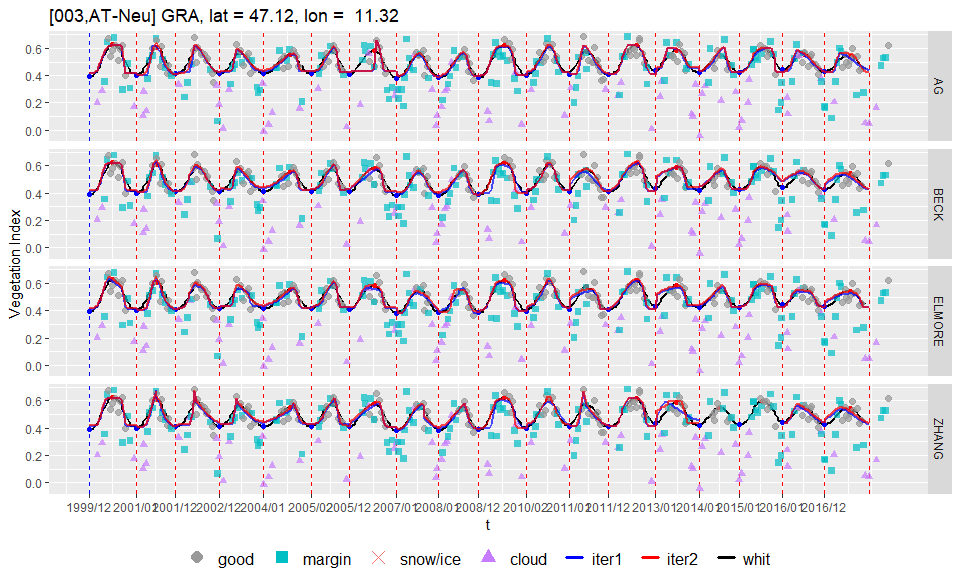
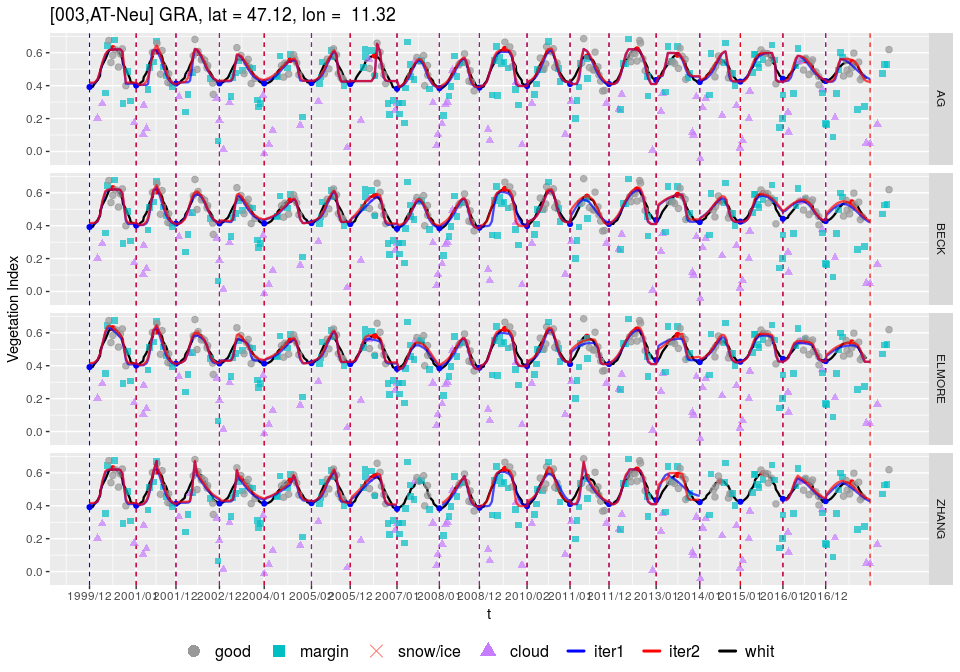
success add weigths iteration

diff --git a/src/wTSM.cpp b/src/wTSM.cpp
@@ -35,7 +35,7 @@ NumericVector wTSM_cpp(NumericVector y, NumericVector yfit, NumericVector w,
       // Adjust the weights dependent on if the values are above or below the
       // fitted values
       if (y[i] < yfit[i] - 1e-8){
-          if (yi_min > yfitmean || iter < 2){
+          if (yi_min > yfitmean){ //  || iter < 2
             /**
              * If there is a low variation in an interval, i.e. if the interval
              * is at a peak or at a minima compute the normalized distance

diff --git a/README.md b/README.md
@@ -1,21 +1,25 @@
 
 <!-- README.md is generated from README.Rmd. Please edit that file -->
-phenofit
---------
 
-[![Travis Build Status](https://travis-ci.org/kongdd/phenofit.svg?branch=master)](https://travis-ci.org/kongdd/phenofit) [![codecov](https://codecov.io/gh/kongdd/phenofit/branch/master/graph/badge.svg)](https://codecov.io/gh/kongdd/phenofit)
+## phenofit
 
-A state-of-the-art **remote sensing vegetation phenology** extraction package: `phenofit`
+[![Travis Build
+Status](https://travis-ci.org/kongdd/phenofit.svg?branch=master)](https://travis-ci.org/kongdd/phenofit)
+[![codecov](https://codecov.io/gh/kongdd/phenofit/branch/master/graph/badge.svg)](https://codecov.io/gh/kongdd/phenofit)
 
--   `phenofit` combine merits of TIMESAT and phenopix
--   A simple and stable growing season dividing methods was proposed
--   Provide a practical snow elimination method, based on Whittaker
--   7 curve fitting methods and 4 phenology extraction methods
--   We add parameters boundary for every curve fitting methods according to their ecological meaning.
--   `optimx` is used to select best optimization method for different curve fitting methods.
+A state-of-the-art **remote sensing vegetation phenology** extraction
+package: `phenofit`
 
-Installation
-------------
+  - `phenofit` combine merits of TIMESAT and phenopix
+  - A simple and stable growing season dividing methods was proposed
+  - Provide a practical snow elimination method, based on Whittaker
+  - 7 curve fitting methods and 4 phenology extraction methods
+  - We add parameters boundary for every curve fitting methods according
+    to their ecological meaning.
+  - `optimx` is used to select best optimization method for different
+    curve fitting methods.
+
+## Installation
 
 You can install phenofit from github with:
 
@@ -24,21 +28,20 @@ You can install phenofit from github with:
 devtools::install_github("kongdd/phenofit")
 ```
 
-Example
--------
+## Example
 
-Here, we illustrate how to use `phenofit` to extract vegetation phenology from MOD13A1 in the sampled points. Regional analysis also can be conducted in the similar way.
+Here, we illustrate how to use `phenofit` to extract vegetation
+phenology from MOD13A1 in the sampled points. Regional analysis also can
+be conducted in the similar way.
 
-1. Preparing input data
-=======================
+## 1.1 Download MOD13A1 data
 
-1.1 Download MOD13A1 data
--------------------------
+Upload point shapefile into GEE, clip MOD13A1 and download vegetation
+index data.
+[Here](https://code.earthengine.google.com/ee3ec39cf3061374dab435c358d008a3)
+is the corresponding GEE script.
 
-Upload point shapefile into GEE, clip MOD13A1 and download vegetation index data. [Here](https://code.earthengine.google.com/ee3ec39cf3061374dab435c358d008a3) is the corresponding GEE script.
-
-1.2 Initial weights for input data
-----------------------------------
+## 1.2 Initial weights for input data
 
 Load packages.
 
@@ -51,20 +54,36 @@ library(purrr)
 library(plyr)
 ```
 
-Read the point shapefile to get points coordinate information. Read Enhanced Vegetation Index (EVI) exported by `GEE`.
+Set global parameters for
+`phenofit`
 
--   Add date according to composite day of the year (DayOfYear), other than image date.
--   Add weights according to `SummaryQA`.
+``` r
+# lambda   <- 5    # non-parameter Whittaker, only suit for 16-day. Other time-scale
+# should assign a lambda.
+ymax_min   <- 0.1  # the maximum ymax shoud be greater than `ymax_min` 
+rymin_less <- 0.8  # trough < ymin + A*rymin_less
+nptperyear <- 23   # How many points for a single year
+wFUN       <- wTSM #wBisquare # Weights updating function, could be one of `wTSM`, 'wBisquare', `wChen` and `wSELF`. 
+```
 
-For MOD13A1, Weights can by initialed by `SummaryQA` band (also suit for MOD13A2 and MOD13Q1). We have written a qc function for `SummaryQA`, `qc_summary`.
+Read the point shapefile to get points coordinate information. Read
+Enhanced Vegetation Index (EVI) exported by `GEE`.
 
-| SummaryQA       | Pixel reliability summary QA                        | weight |
-|-----------------|-----------------------------------------------------|--------|
-| -1 Fill/No data | Not processed                                       | `wmin` |
-| 0 Good data     | Use with confidence                                 | 1      |
-| 1 Marginal data | Useful but look at detailed QA for more information | 0.5    |
-| 2 Snow/ice      | Pixel covered with snow/ice                         | `wmin` |
-| 3 Cloudy        | Pixel is cloudy                                     | `wmin` |
+  - Add date according to composite day of the year (DayOfYear), other
+    than image date.
+  - Add weights according to `SummaryQA`.
+
+For MOD13A1, Weights can by initialed by `SummaryQA` band (also suit for
+MOD13A2 and MOD13Q1). We have written a qc function for `SummaryQA`,
+`qc_summary`.
+
+| SummaryQA        | Pixel reliability summary QA                        | weight |
+| ---------------- | --------------------------------------------------- | ------ |
+| \-1 Fill/No data | Not processed                                       | `wmin` |
+| 0 Good data      | Use with confidence                                 | 1      |
+| 1 Marginal data  | Useful but look at detailed QA for more information | 0.5    |
+| 2 Snow/ice       | Pixel covered with snow/ice                         | `wmin` |
+| 3 Cloudy         | Pixel is cloudy                                     | `wmin` |
 
 ``` r
 data('MOD13A1')
@@ -95,22 +114,13 @@ if ('SummaryQA' %in% colnames(df)){
 df <- df[, .(site, y = EVI/1e4, t, w, date, SummaryQA)]
 ```
 
-Add one year in head and tail, for growing season dividing. For example, the input data period is 20000218 ~ 20171219. After adding one year in head and tail, it becomes 19990101 ~ 20181219.
+Add one year in head and tail, for growing season dividing. For example,
+the input data period is 20000218 ~ 20171219. After adding one year in
+head and tail, it becomes 19990101 ~ 20181219.
 
-2. Running `phenofit`
-=====================
-
-2.1 Set global parameters for `phenofit`
-----------------------------------------
+## 2.1 load data
 
 ``` r
-# lambda   <- 5    # non-parameter Whittaker, only suit for 16-day. Other time-scale
-# should assign a lambda.
-ymax_min   <- 0.1  # the maximum ymax shoud be greater than `ymax_min` 
-rymin_less <- 0.8  # trough < ymin + A*rymin_less
-nptperyear <- 23   # How many points for a single year
-wFUN       <- wTSM # Weights updating function, could be one of `wTSM`, 'wBisquare', `wChen` and `wSELF`. 
-
 sites        <- unique(df$site)
 sitename     <- df$site[1]
 d            <- df[site == sitename] # get the first site data
@@ -125,15 +135,15 @@ titlestr   <- with(sp, sprintf('[%03d,%s] %s, lat = %5.2f, lon = %6.2f',
 file_pdf   <- sprintf('Figure/%s_[%03d]_%s.pdf', prefix_fig, sp$ID[1], sp$site[1])
 ```
 
-If need night temperature (Tn) to constrain ungrowing season backgroud value, NA values in Tn should be filled.
+If need night temperature (Tn) to constrain ungrowing season backgroud
+value, NA values in Tn should be filled.
 
 ``` r
 d$Tn %<>% zoo::na.approx(maxgap = 4)
 plot(d$Tn, type = "l"); abline(a = 5, b = 0, col = "red")
 ```
 
-2.1 Check input data
---------------------
+## 2.1 Check input data
 
 ``` r
 dnew  <- add_HeadTail(d) # add additional one year in head and tail
@@ -142,14 +152,18 @@ INPUT <- check_input(dnew$t, dnew$y, dnew$w, maxgap = nptperyear/4, alpha = 0.02
 INPUT$y0 <- dnew$y 
 ```
 
-2.2 Divide growing seasons
---------------------------
+## 2.2 Divide growing seasons
 
-Simply treating calendar year as a complete growing season will induce a considerable error for phenology extraction. A simple growing season dividing method was proposed in `phenofit`.
+Simply treating calendar year as a complete growing season will induce a
+considerable error for phenology extraction. A simple growing season
+dividing method was proposed in `phenofit`.
 
-The growing season dividing method rely on heavily in Whittaker smoother.
+The growing season dividing method rely on heavily in Whittaker
+smoother.
 
-Procedures of initial weight, growing season dividing and curve fitting are separated. Phenology extraction and curve fitting are combined together.
+Procedures of initial weight, growing season dividing and curve fitting
+are separated. Phenology extraction and curve fitting are combined
+together.
 
 ``` r
 par(mar = c(3, 2, 2, 1), mgp = c(3, 0.6, 0))
@@ -163,7 +177,8 @@ lambda <- init_lambda(INPUT$y)
 #                rymin_less = 0.6, ymax_min = ymax_min,
 #                max_MaxPeaksperyear =2.5, max_MinPeaksperyear = 3.5) #, ...
 # get growing season breaks in a 3-year moving window
-brks2 <- season_3y(INPUT, nptperyear, south = sp$lat[1] < 0, FUN = whitsmw2,
+brks2 <- season_3y(INPUT, nptperyear, south = sp$lat[1] < 0, 
+                   FUN = whitsmw2, wFUN = wFUN,
                    IsPlot = IsPlot, print = print, partial = F)
 #   [season_3y]  running 1 ...
 #   [season_3y]  running 2 ...
@@ -187,8 +202,7 @@ brks2 <- season_3y(INPUT, nptperyear, south = sp$lat[1] < 0, FUN = whitsmw2,
 
 <img src="man/Figure/divide growing season-1.png" style="display: block; margin: auto;" />
 
-2.3 Curve fitting
------------------
+## 2.3 Curve fitting
 
 ``` r
 fit  <- curvefits(INPUT, brks2, lambda =lambda,
@@ -205,6 +219,11 @@ fit  <- curvefits(INPUT, brks2, lambda =lambda,
 #   [curvefits]  running 6 ...
 #   [curvefits]  running 7 ...
 #   [curvefits]  running 8 ...
+# Warning in optim_pheno(prior, FUN, y, t, tout, optimFUN, method, w, lower =
+# lower, : Not convergent!
+
+# Warning in optim_pheno(prior, FUN, y, t, tout, optimFUN, method, w, lower =
+# lower, : Not convergent!
 #   [curvefits]  running 9 ...
 #   [curvefits]  running 10 ...
 #   [curvefits]  running 11 ...
@@ -268,7 +287,7 @@ fit$stat <- stat
 print(head(stat))
 #   meth   flag      RMSE         NSE         R       pvalue  n
 # 1   AG 2000_1 0.2632999 -0.13463590 0.7813034 2.462271e-06 26
-# 2   AG 2001_1 0.1624429  0.27917479 0.8328435 2.798427e-06 21
+# 2   AG 2001_1 0.1624429  0.27917478 0.8328435 2.798426e-06 21
 # 3   AG 2002_1 0.1810090  0.15679409 0.8284686 1.051100e-06 23
 # 4   AG 2003_1 0.1824374 -0.01015221 0.7843137 5.738810e-06 24
 # 5   AG 2004_1 0.2396933 -0.22206966 0.8652529 4.848286e-08 24
@@ -285,8 +304,7 @@ grid::grid.newpage(); grid::grid.draw(g)# plot to check the curve fitting
 
 <img src="man/Figure/curve fitting-1.png" style="display: block; margin: auto;" />
 
-2.4 Extract phenology.
-----------------------
+## 2.4 Extract phenology.
 
 ``` r
 # pheno: list(p_date, p_doy)
@@ -324,14 +342,14 @@ print(str(pheno, 2))
 # NULL
 head(pheno$doy$AG)
 # # A tibble: 6 x 21
-#   flag   origin     TRS1.sos TRS1.eos TRS2.sos TRS2.eos TRS5.sos TRS5.eos
-#   <fct>  <date>        <dbl>    <dbl>    <dbl>    <dbl>    <dbl>    <dbl>
-# 1 2000_1 2000-01-01       57      291       68      287       91      281
-# 2 2001_1 2001-01-01      105      310      119      287      141      251
-# 3 2002_1 2002-01-01       86      320       98      290      117      243
-# 4 2003_1 2003-01-01      103      321      110      289      121      237
-# 5 2004_1 2004-01-01       42      316       69      306      137      292
-# 6 2005_1 2005-01-01       87      274      114      268      158      258
+#   flag  origin     TRS1.sos TRS1.eos TRS2.sos TRS2.eos TRS5.sos TRS5.eos
+#   <fct> <date>        <dbl>    <dbl>    <dbl>    <dbl>    <dbl>    <dbl>
+# 1 2000… 2000-01-01       57      291       68      287       91      281
+# 2 2001… 2001-01-01      105      310      119      287      141      251
+# 3 2002… 2002-01-01       86      320       98      290      117      243
+# 4 2003… 2003-01-01      103      321      110      289      121      237
+# 5 2004… 2004-01-01       42      316       69      306      137      292
+# 6 2005… 2005-01-01       87      274      114      268      158      258
 # # ... with 13 more variables: TRS6.sos <dbl>, TRS6.eos <dbl>,
 # #   DER.sos <dbl>, DER.pop <dbl>, DER.eos <dbl>, GU.UD <dbl>, GU.SD <dbl>,
 # #   GU.DD <dbl>, GU.RD <dbl>, ZHANG.Greenup <dbl>, ZHANG.Maturity <dbl>,
